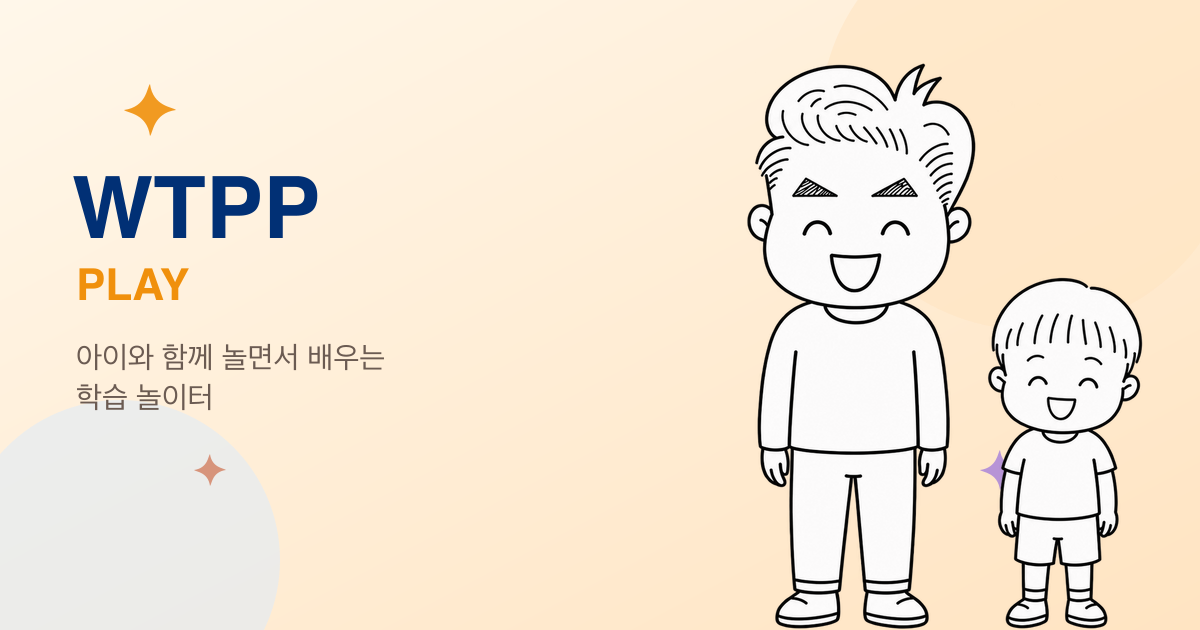
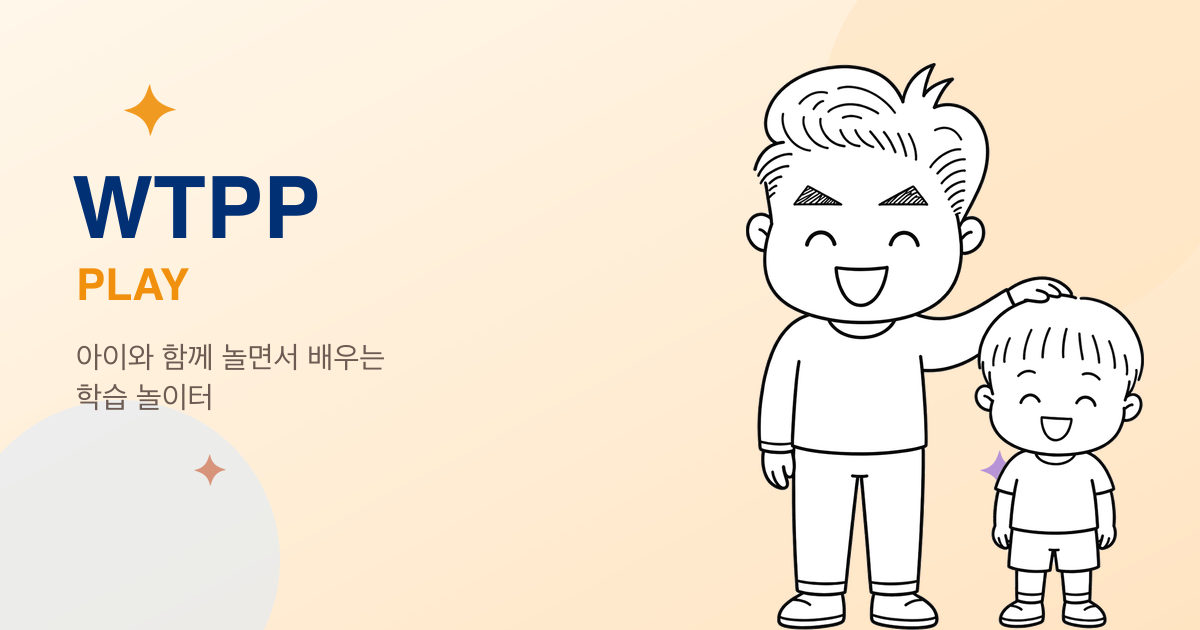
첫 화면 합본 컷을 아빠가 웨티 머리에 손을 얹은 것으로 교체
나란히 서 있기만 하던 컷보다 두 사람의 관계가 한눈에 읽힌다.
확정 자산 wetipapa_weti_together_02를 쓰고, 같은 원본에서 뽑는
OG 이미지도 함께 바뀐다.

Changed region(s): [[0.6167, 0.0905, 0.9558, 1.0]]

diff --git a/components/BrandIntro.tsx b/components/BrandIntro.tsx
@@ -30,7 +30,7 @@ export default function BrandIntro() {
         <div className={styles.mascotWrap}>
           <Image
             src={mascotHero}
-            alt="나란히 서서 웃고 있는 웨티아빠와 아들 웨티 캐릭터"
+            alt="웨티 머리에 손을 얹고 웃고 있는 웨티아빠와 아들 웨티 캐릭터"
             priority
             className={styles.mascotImg}
             sizes="(max-width: 640px) 128px, 176px"
